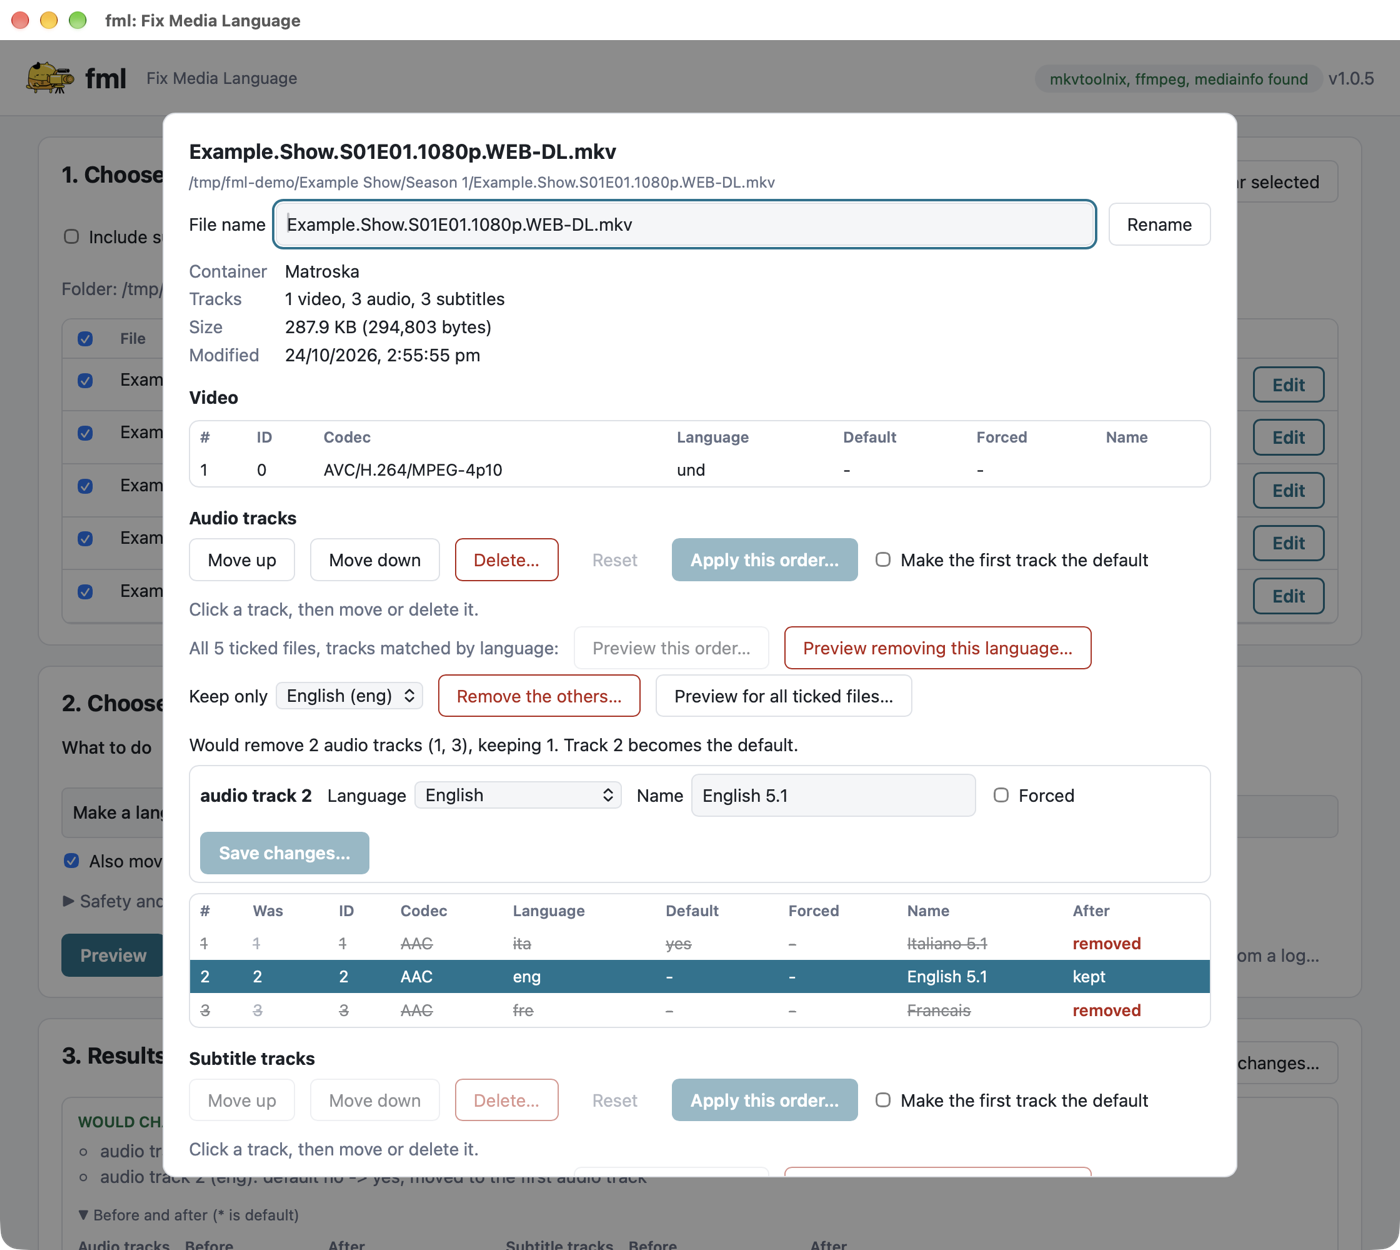
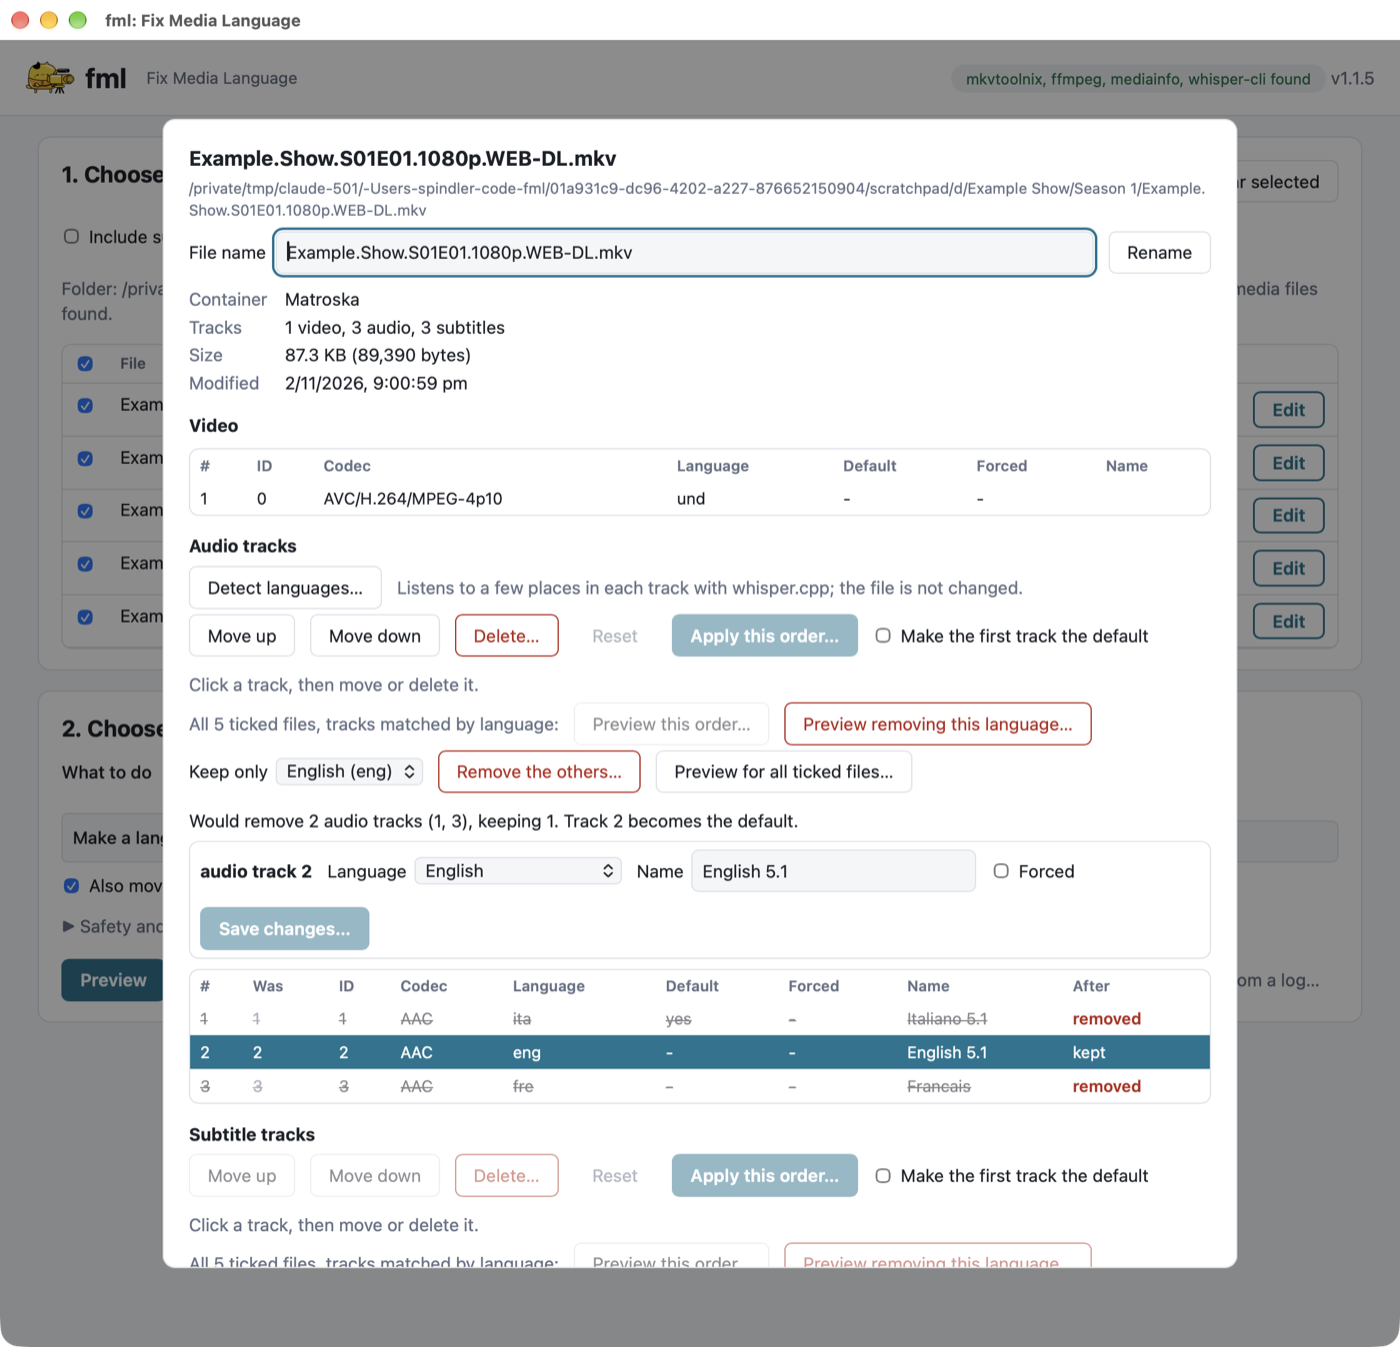
Updates and improvements

diff --git a/README.md b/README.md
@@ -177,7 +177,9 @@ stand-in tools as a smoke test. On Windows itself the installer's tools (Rust, t
 The app does everything the command line does on whole folders, and the Edit dialog works on one file. Open it with
 `./fml --gui` (or `fml-cli --gui`, or `fml.app` on a Mac), after building it as described in [Installing](#installing).
 It follows the system's light or dark appearance. It uses the same engine as the command line, so changes are made
-the same careful way, and the logs it writes can be used with `--undo` and the other way round.
+the same careful way, and the logs it writes can be used with `--undo` and the other way round. The chip at the top
+right lists the commands found (`mkvtoolnix, ffmpeg, mediainfo`, and `whisper-cli` when the optional language
+detection is installed); its tooltip has their paths.
 
 ### 1. Choose files
 
